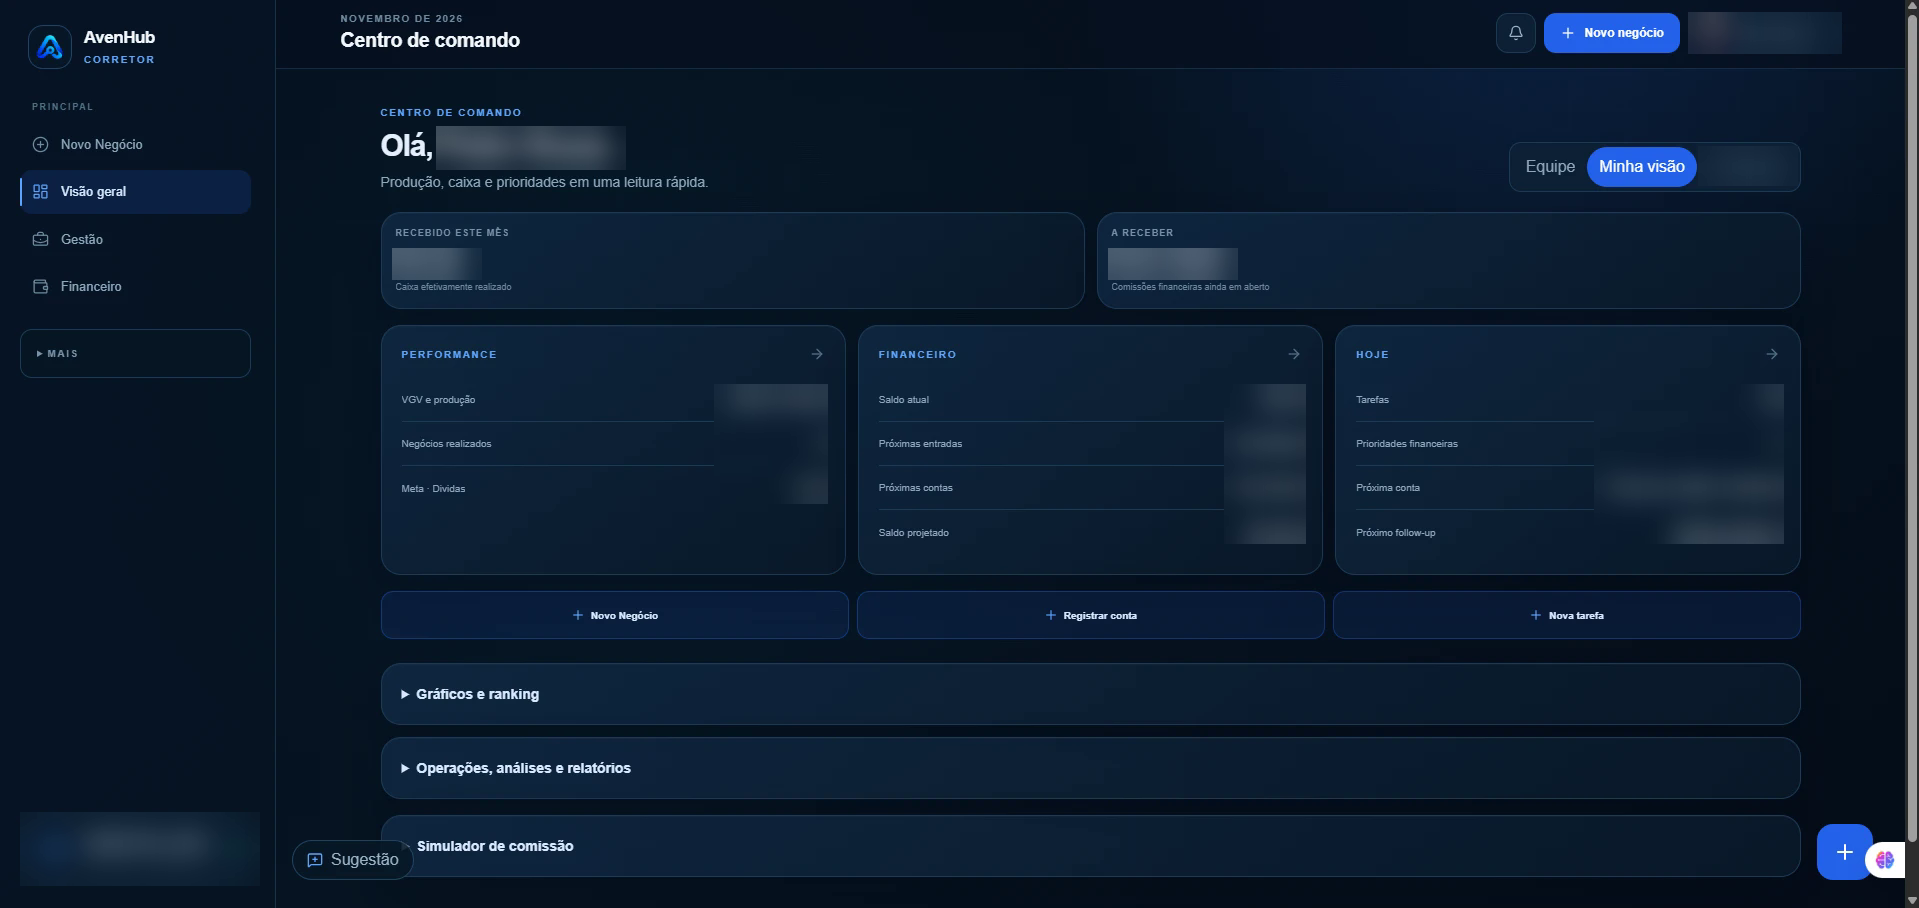
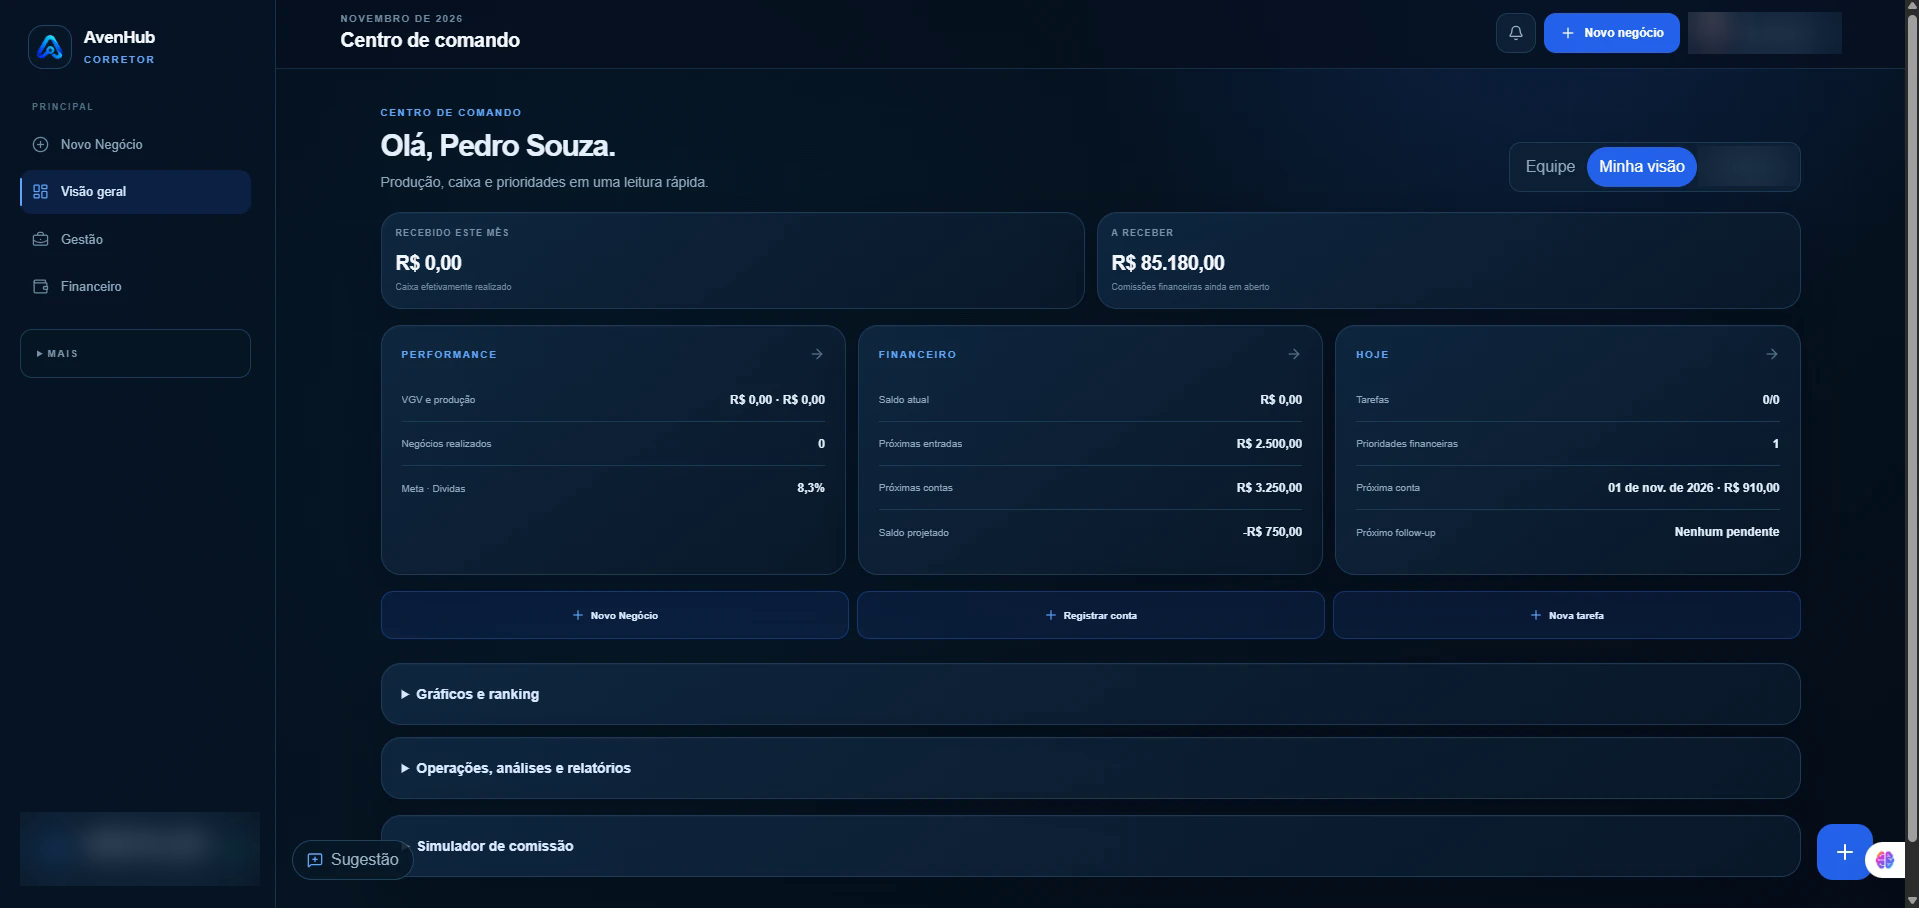
Mostra nome e valores na tela do centro de comando do AvenHub

diff --git a/README.md b/README.md
@@ -113,7 +113,7 @@ especialmente nos mercados imobiliário, financeiro e esportivo.
 - Central com 9 simuladores imobiliários: amortização, ROI, aluguel, revenda, leilão, construção e mais.
 
 <p align="center">
-  <img src="assets/avenhub-centro-de-comando.png" alt="Centro de comando do AvenHub (dados pessoais ocultados)" width="100%">
+  <img src="assets/avenhub-centro-de-comando.png" alt="Centro de comando do AvenHub" width="100%">
 </p>
 <p align="center">
   <img src="assets/avenhub-ferramentas.png" alt="Central de ferramentas imobiliárias do AvenHub" width="100%">
